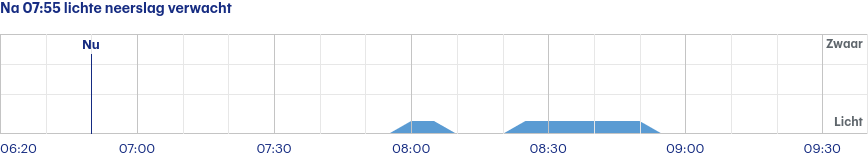
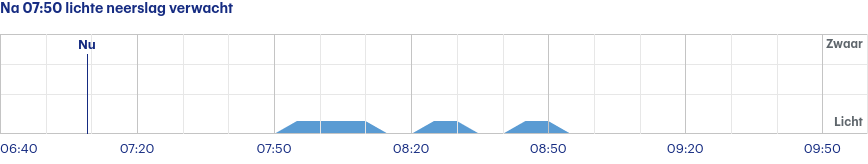
Latest scraping buienradar: Thu Jul 20 05:00:34 UTC 2023

diff --git a/scrapes/buienradar/buienradar-jette-3-uur.md b/scrapes/buienradar/buienradar-jette-3-uur.md
@@ -1,4 +1,4 @@
-Na 07:55 lichte neerslag verwacht
+Na 07:50 lichte neerslag verwacht
 
 ![](buienradar-jette-3-uur.png)
 
